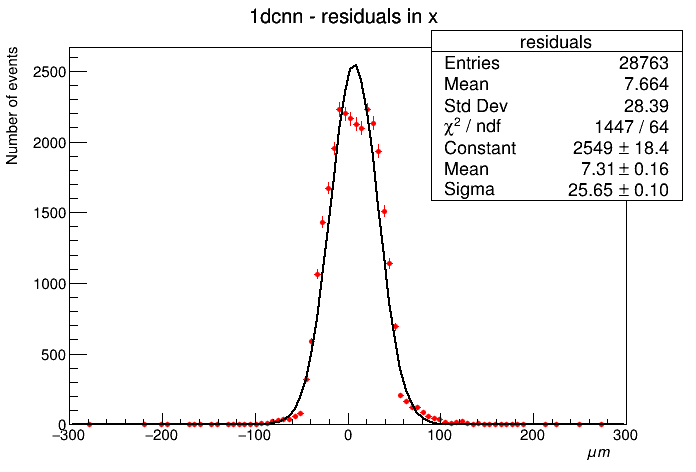
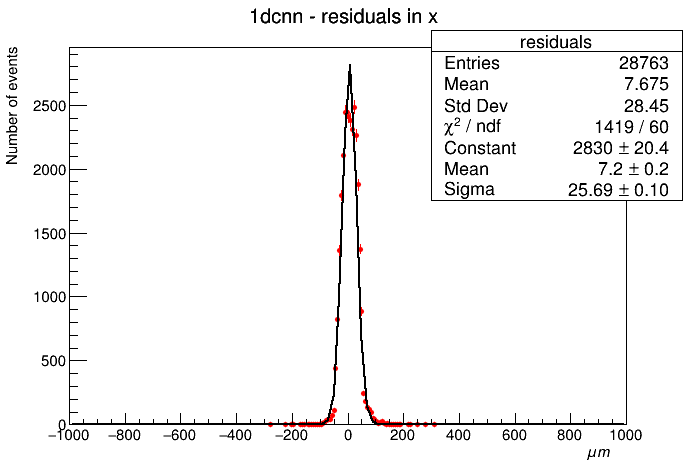
cutoff cmssw

diff --git a/code/plot_hist.py b/code/plot_hist.py
@@ -68,7 +68,7 @@ def plot_residual(residuals,label,algo):
 
 def plot_root(residuals,label,algo):
 
-	res = ROOT.TH1F("residuals","%s %s"%(algo,label),100,-300,300)
+	res = ROOT.TH1F("residuals","%s %s"%(algo,label),300,-1000,1000)
 	res.Sumw2() # statistical uncertainties to be calculated using the sum of weights squared
 	'''
 	Once the histogram has been filled, we want to make sure that it doesnt disappear. By default, histograms
